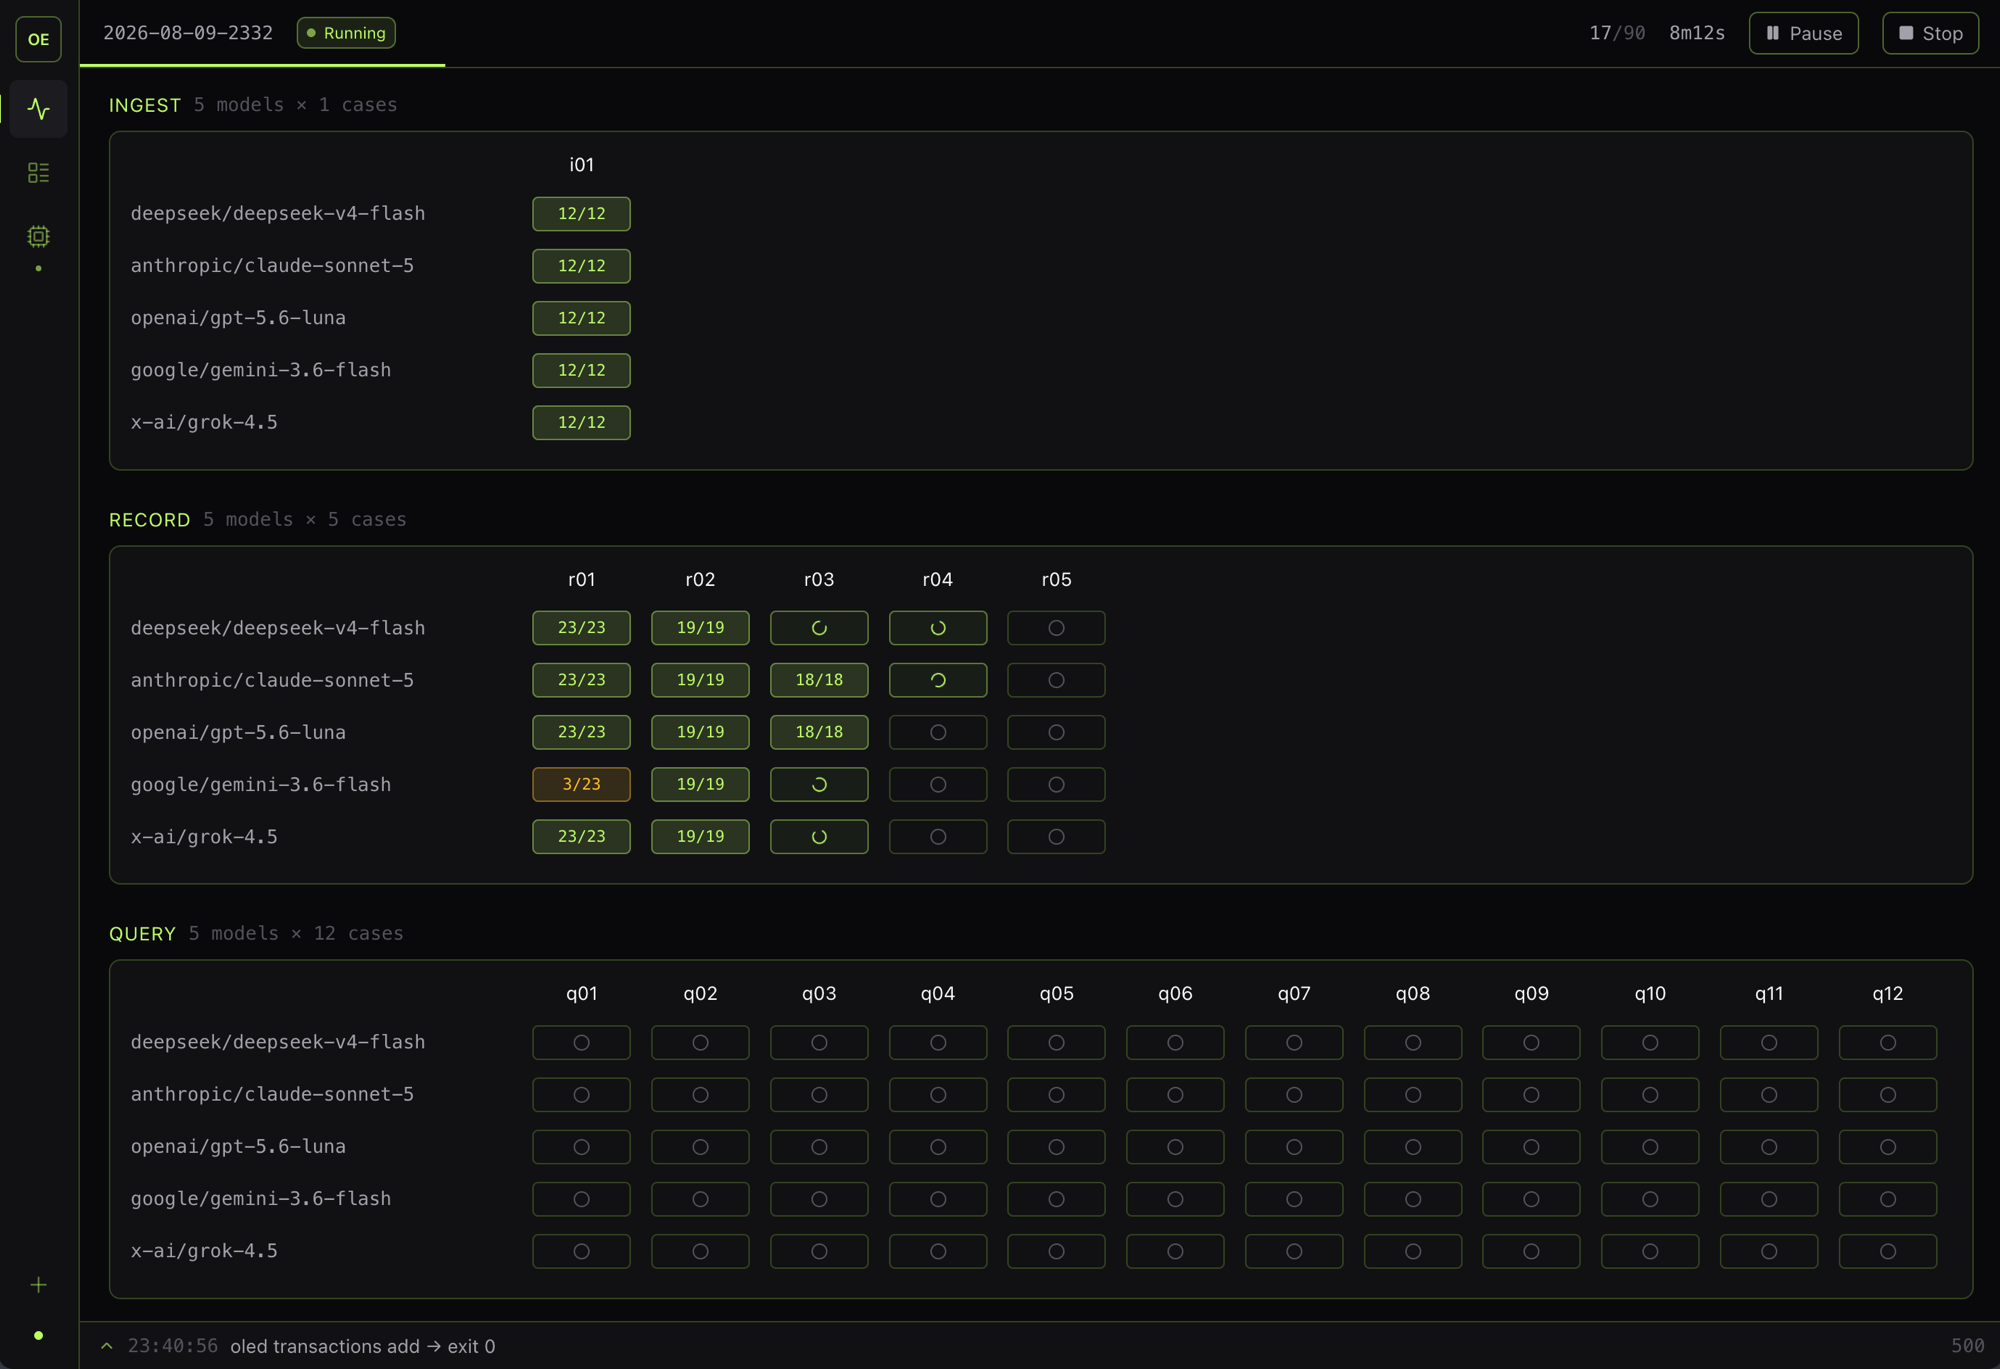
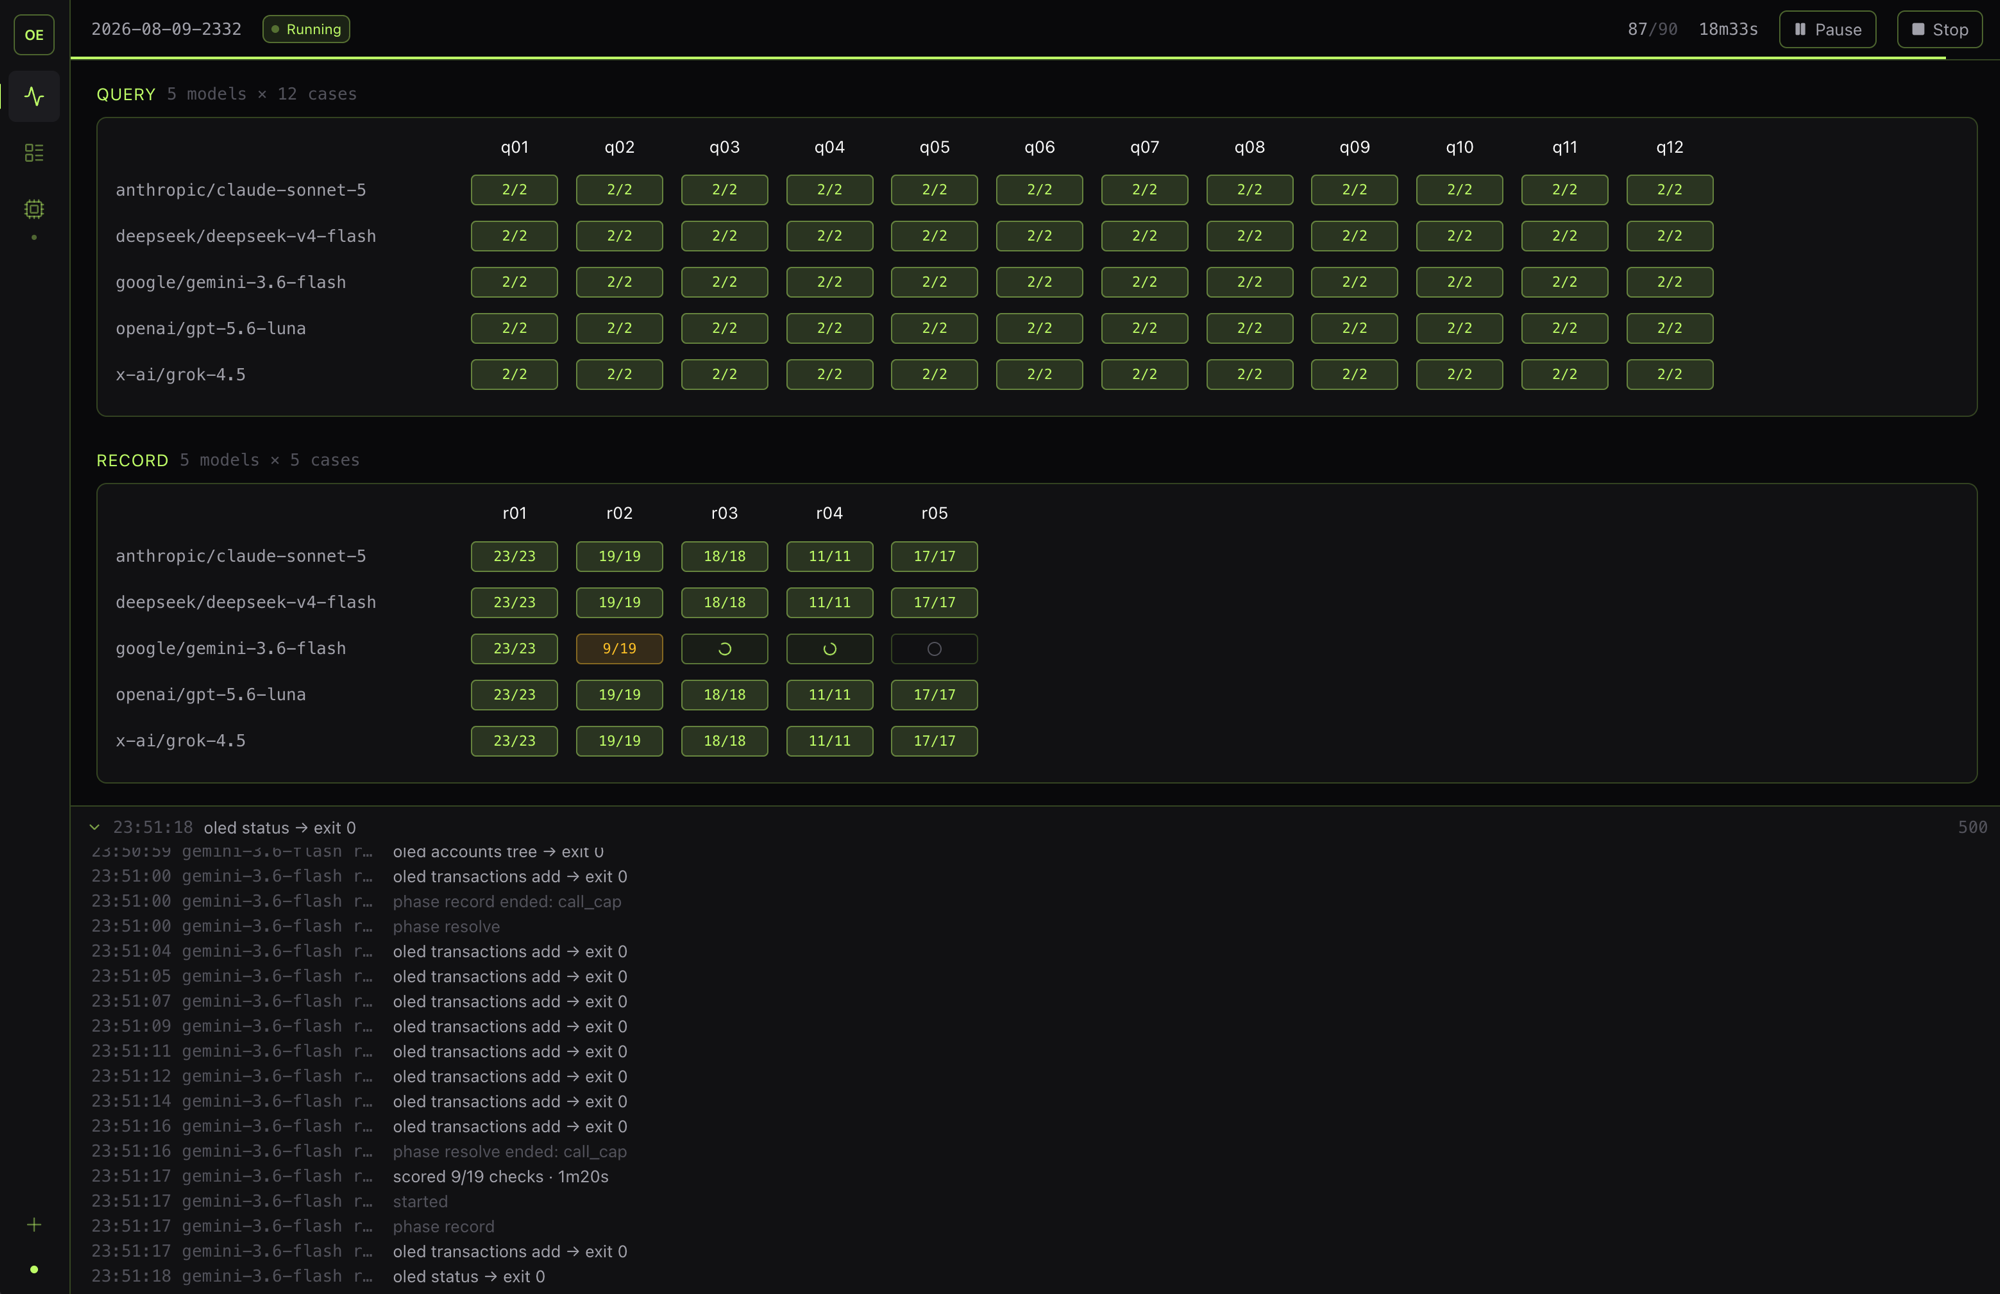
docs: swap in a dashboard shot showing the feed

diff --git a/README.md b/README.md
@@ -9,7 +9,7 @@
 </p>
 
 <p align="center">
-  <img src=".github/dashboard.png" width="900" alt="The dashboard mid-run: one grid per suite, models down the side and cases across the top, each cell showing checks passed." />
+  <img src=".github/dashboard.png" width="900" alt="The dashboard mid-run: one grid per suite with models down the side and cases across the top, each cell showing the checks it passed, over a live feed of the oled calls each run is making." />
 </p>
 
 <br />
